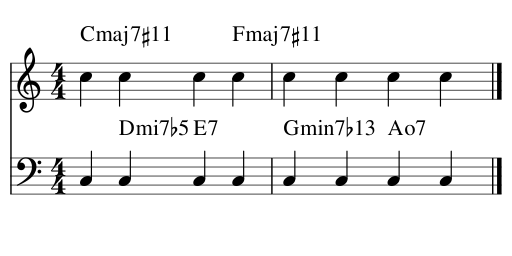
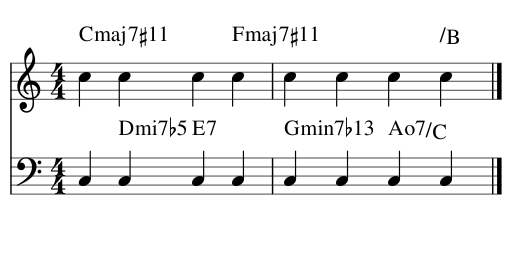
fix #37506: fix rendering of rootless slash chords
Former-commit-id: fd0a5c97fa2615f67d69a3db42592d41294646bf

diff --git a/libmscore/harmony.cpp b/libmscore/harmony.cpp
@@ -341,8 +341,12 @@ void Harmony::read(XmlReader& e)
             // with any luck, the resulting text will be parseable now, so give it a shot
             createLayout();
             QString s = plainText(true);
-            setHarmony(s);
-            return;
+            if (!s.isEmpty()) {
+                  setHarmony(s);
+                  return;
+                  }
+            // empty text could also indicate a root-less slash chord ("/E")
+            // we'll fall through and render it normally
             }
 
       // render chord from description (or _textName)
